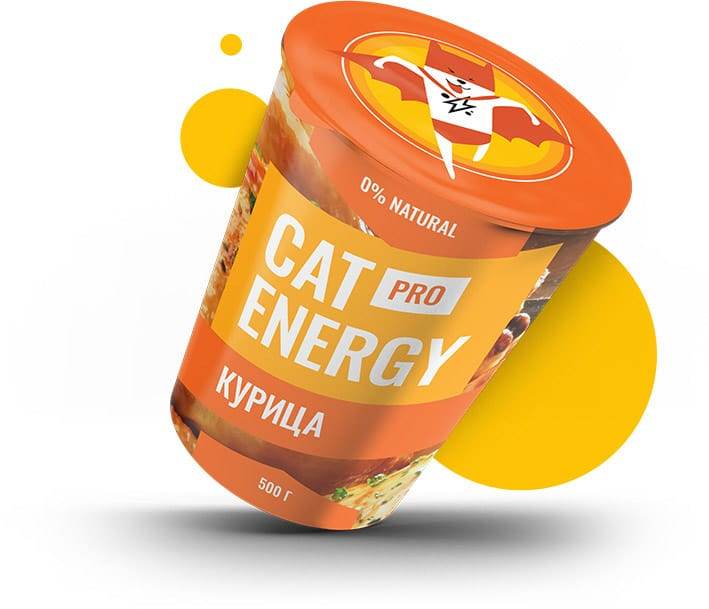
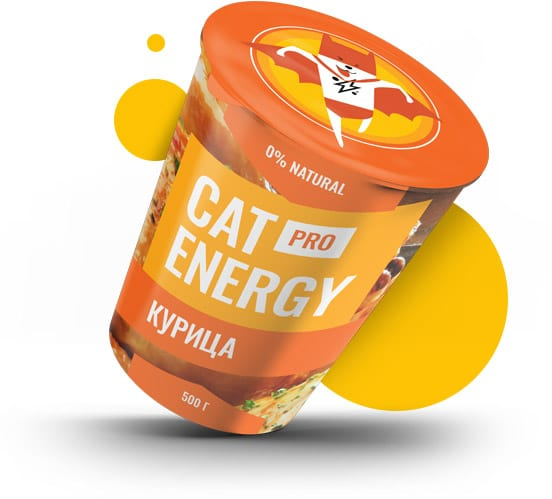
index.html / categories

Changed region(s): [[0.154, 0.0, 0.9547, 0.9018], [0.8623, 0.7214, 0.8931, 0.7515], [0.8315, 0.7515, 0.8623, 0.7816]]

diff --git a/dev/index.html b/dev/index.html
@@ -26,7 +26,14 @@
 </header>
 <main class="page-main">
     <section class="first-screen">
-
+        <h3 class="first-screen__title">Функциональное питание для котов</h3>
+        <p class="first-screen__slogan">занялся собой? займись котом!</p>
+        <picture>
+            <source media="(min-width: 1024px)" srcset="resources/img/img-opt/index/desk/index-can-desk.jpg">
+            <source media="(min-width: 768px)" srcset="resources/img/img-opt/index/tabl/index-can-tablet.jpg">
+            <img src="resources/img/img-opt/index/mobile/index-can-mobile.jpg" alt="курица" class="first-screen__picture" >
+        </picture>
+        <a href="#" class="first-screen__program">подобрать программу</a>
     </section>
     <section class="categories">
 
